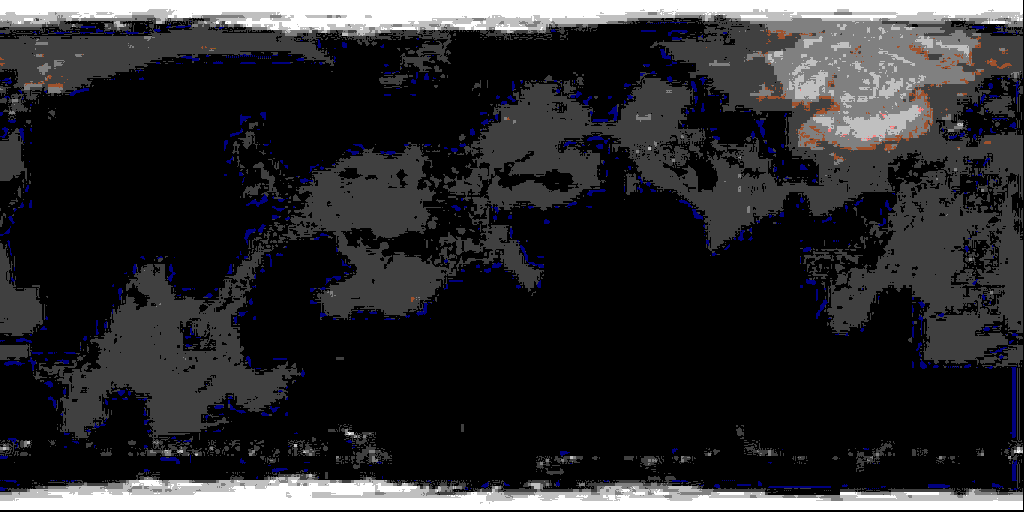
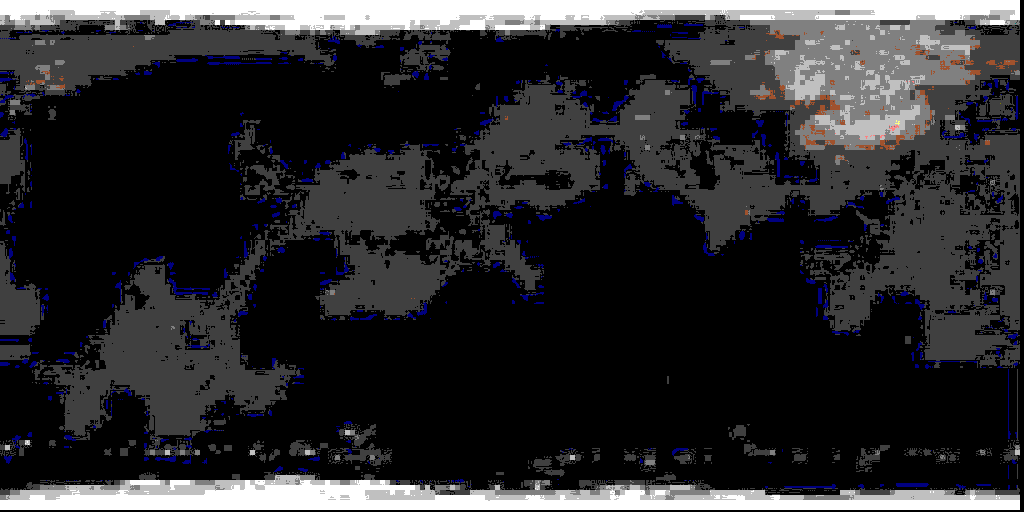
commit tmp

diff --git a/src/clustering/DBSCAN.java b/src/clustering/DBSCAN.java
@@ -4,6 +4,7 @@ import normes.NormeCIELAB;
 
 import java.awt.*;
 import java.util.ArrayList;
+import java.util.Collections;
 import java.util.HashMap;
 import java.util.HashSet;
 
@@ -16,8 +17,6 @@ public class DBSCAN implements AlgoClustering {
     // Attributs
     private int eps; // Taille du rayon de voisinage
     private int minPts; // Nombre minimum de point dans le rayon de voisinage d'un point pour le qualifié de "core point"
-    private HashMap<ArrayList<Integer>[], Double> list_combinaisons_distance = new HashMap<>();
-
 
 
 
@@ -32,104 +31,38 @@ public class DBSCAN implements AlgoClustering {
     }
 
 
-    /**
-     * Méthode qui calcul la distance entre chaque couleur de l'image
-     * @param list_carac
-     */
-    private void getAllDist(ArrayList<ArrayList<Integer>> list_carac) {
 
-        // Initialisation des variables
-        HashSet<ArrayList<Integer>> list_colors = new HashSet<>();
 
-        // On récupère chaque couleur différente
-        list_colors.addAll(list_carac);
+    @Override
+    public ArrayList<Integer> calculate_clusters(ArrayList<ArrayList<Integer>> list_carac) {
+        int C = 0;
+        int nbPoints = list_carac.size();
+        boolean[] obj_traite = new boolean[nbPoints];
+        ArrayList<Integer> list_num_cluster = new ArrayList<>(Collections.nCopies(nbPoints, -1));
 
-        System.out.println("Nombre de couleur différente trouvée : " + list_colors.size());
+        for (int n = 0; n < nbPoints; n++) {
 
-        NormeCIELAB norme = new NormeCIELAB();
+            System.out.println("Pixel -> " + n);
 
-        int i = 0;
+            if (!obj_traite[n]) {
 
-        System.out.println("Début du calcul de la distance entre chaque combinaison de couleur possible...");
-        // On parcour chaque couleur différente
-        for (ArrayList<Integer> color1 : list_colors) {
-            for (ArrayList<Integer> color2 : list_colors) {
+                obj_traite[n] = true;
+                ArrayList<Integer> voisins = regionQuery(n, list_carac);
 
-                // Si la distance entre ces deux couleur n'est pas déjà calculée
-                if (this.list_combinaisons_distance.get(new ArrayList[]{color2, color1}) == null) {
-
-                    // On transforme les données R, G, B des points en objet Color
-                    Color c1 = new Color(color1.get(0), color1.get(1), color1.get(2));
-                    Color c2 = new Color(color2.get(0), color2.get(1), color2.get(2));
-
-                    // On calcul la distance entre ces 2 couleurs
-                    double dist = norme.distanceCouleur(c1, c2);
-
-                    // On l'ajoute à la Map
-                    this.list_combinaisons_distance.put(new ArrayList[]{color1, color2}, dist);
-
+                if (voisins.size() >= minPts) {
+                    C++;
+                    expandCluster(n, voisins, obj_traite, C, list_num_cluster, list_carac);
+                } else {
+                    list_num_cluster.set(n, 0); // 0 pour bruit
                 }
 
             }
         }
 
-    }
-
-
-
-    @Override
-    public ArrayList<Integer> calculate_clusters(ArrayList<ArrayList<Integer>> list_carac) {
-
-        System.out.println("Début du calcul des clusters...");
-
-        // Initialisation de toutes les distances possibles entre toutes les couleurs
-        this.getAllDist(list_carac);
-
-        // Initialisation des variables
-        int num_cluster = 0;
-        boolean[] obj_traite = new boolean[list_carac.size()];
-
-        // Initialisation de la liste contenant pour chaque point, son numéro de cluster
-        ArrayList<Integer> list_num_cluster = new ArrayList<>(list_carac.size());
-        for (int i = 0; i < list_carac.size(); i++) {
-            list_num_cluster.add(-1);
-        }
-
-        // On parcour chaque point
-        for (int i = 0; i < list_carac.size(); i++) {
-
-            int nb_false = 0;
-            for (boolean b : obj_traite) {
-                if (!b) { nb_false++; }
-            }
-            System.out.println("Pixel -> " + i + "/" + nb_false);
-
-            // Si le point n'a pas déjà été traité, on le marque comme traité
-            if (!obj_traite[i]) { obj_traite[i] = true; }
-
-            // On récupère la liste des points qui sont dans le rayon de voisinage
-            ArrayList<ArrayList<Integer>> pts_voisin = this.regionQuery(i, list_carac);
-
-            // Si il y a plus de points voisin que le nombre minimal défini
-            if (pts_voisin.size() >= this.minPts) {
-
-                // On créé un nouveau cluster et on ajoute à l'intérieur tous ses voisins qui peuvent rentrer dans ce cluster
-                num_cluster += 1;
-                this.expandCluster(i, pts_voisin, obj_traite, num_cluster, list_num_cluster, list_carac);
-
-            }
-
-            // Sinon, on marque le point comme un noise point
-            else {
-                list_num_cluster.set(i, -1); // -1 indique que le point est un "Noise Point"
-            }
-
-        }
-
-        // On retourne la liste des numéros de clusters
         return list_num_cluster;
 
     }
+
 
 
     /**
@@ -138,45 +71,23 @@ public class DBSCAN implements AlgoClustering {
      * @param list_carac Liste de point représenté par une liste de caractéristiques (R, G, B)
      * @return Liste de points dans la zone de voisinage
      */
-    private ArrayList<ArrayList<Integer>> regionQuery(int index_point, ArrayList<ArrayList<Integer>> list_carac) {
+    private ArrayList<Integer> regionQuery(int index_point, ArrayList<ArrayList<Integer>> list_carac) {
 
-        // Initialisation des variables
         NormeCIELAB norme = new NormeCIELAB();
-        ArrayList<Integer> point = list_carac.get(index_point);
+        ArrayList<Integer> V = new ArrayList<>();
 
-        // On créé et remplie la liste avec des null
-        ArrayList<ArrayList<Integer>> list_points_voisins = new ArrayList<>(list_carac.size());
+        Color c1 = new Color(list_carac.get(index_point).get(0), list_carac.get(index_point).get(1), list_carac.get(index_point).get(2));
+
         for (int i = 0; i < list_carac.size(); i++) {
-            list_points_voisins.add(null);
-        }
-
-
-
-
-        // On parcour chaque point
-        for (ArrayList<Integer> p : list_carac) {
-
-
-            // System.out.println("Pixel (regionQuery) -> " + p);
-
-            // On transforme les données R, G, B des points en objet Color
-            Color p_color = new Color(p.get(0), p.get(1), p.get(2));
-            Color point_color = new Color(point.get(0), point.get(1), point.get(2));
-
-            // Si on ne compare pas le même point et que la distance entre les deux couleurs est inférieur à la taille du rayon
-            if (p != point && norme.distanceCouleur(p_color, point_color) <= this.eps) {
-
-                // On ajoute ce point à la liste des voisins
-                list_points_voisins.set(index_point, p);
-
+            Color c2 = new Color(list_carac.get(i).get(0), list_carac.get(i).get(1), list_carac.get(i).get(2));
+            if (i != index_point && norme.distanceCouleur(c1, c2) <= eps) {
+                V.add(i);
             }
-
         }
 
-        // On retourne la liste des voisins
-        return list_points_voisins;
-
+        return V;
     }
+
 
 
     /**
@@ -188,52 +99,36 @@ public class DBSCAN implements AlgoClustering {
      * @param list_num_cluster Liste qui contient le numéro de cluster pour chaque point
      * @param list_carac Liste de point représenté par une liste de caractéristiques (R, G, B)
      */
-    private void expandCluster(int index_point, ArrayList<ArrayList<Integer>> ptsVoisin, boolean[] obj_traite, int numCluster, ArrayList<Integer> list_num_cluster, ArrayList<ArrayList<Integer>> list_carac) {
+    private void expandCluster(int index_point, ArrayList<Integer> ptsVoisin, boolean[] obj_traite,
+                               int numCluster, ArrayList<Integer> list_num_cluster, ArrayList<ArrayList<Integer>> list_carac) {
 
-        // On ajoute le point initial au nouveau cluster
         list_num_cluster.set(index_point, numCluster);
 
         for (int i = 0; i < ptsVoisin.size(); i++) {
 
-            // On récupère le point
-            ArrayList<Integer> p = ptsVoisin.get(i);
+            int index_voisin = ptsVoisin.get(i);
 
-            // Si le point n'est pas null
-            if (p != null) {
+            if (!obj_traite[index_voisin]) {
 
-                // System.out.println("Pixel (expandCluster) -> " + i);
+                obj_traite[index_voisin] = true;
+                ArrayList<Integer> voisins2 = regionQuery(index_voisin, list_carac);
 
-                // Si le point n'a pas été traité
-                if (!obj_traite[i]) {
+                if (voisins2.size() > minPts) {
 
-                    // On marque le point comme traité
-                    obj_traite[i] = true;
-
-                    // On récupère la liste des points situé dans sa zone de voisinage
-                    ArrayList<ArrayList<Integer>> list_voisins_p = this.regionQuery(i, list_carac);
-
-                    // Si la taille de cette liste est supérieur au minimum de point demandé
-                    if (list_voisins_p.size() > this.minPts) {
-
-                        // On concatène la liste des voisins des points du point que l'on regarde à la liste des points voisins du point initial
-                        ptsVoisin.addAll(list_voisins_p);
-
+                    for (int v : voisins2) {
+                        if (!ptsVoisin.contains(v)) {
+                            ptsVoisin.add(v);
+                        }
                     }
-
-
-                }
-
-                // Si ce point n'est dans aucun cluster
-                if (list_num_cluster.get(i) == -1) {
-
-                    // On ajoute ce point dans le cluster
-                    list_num_cluster.set(i, numCluster);
 
                 }
             }
 
+            if (list_num_cluster.get(index_voisin) == -1) {
+                list_num_cluster.set(index_voisin, numCluster);
+            }
         }
-
     }
+
 
 }

diff --git a/src/CopieImage.java b/src/CopieImage.java
@@ -185,11 +185,19 @@ public class CopieImage {
 
 
         CopieImage copieImage = new CopieImage();
-        String inputPath = "cartes/Planete 1.jpg";
-        String outputPath = "cartes2/Planete1_flou.png";
-        String outputPath2 = "cartes2/Planete1_flou_gauss.png";
+        /*
+        String inputPath = "cartes/Planete 4.jpg";
+        String outputPath = "cartes2/Planete4_flou.png";
+        String outputPath2 = "cartes2/Planete4_flou_gauss.png";
 
-        String outputPathColor = "cartes2/Planete1_color.png";
+        String outputPathColor = "cartes2/Planete4_color.png";
+        */
+
+        String inputPath = "cartes/carte_test.jpg";
+        String outputPath = "cartes2/carte_test_flou.png";
+        String outputPath2 = "cartes2/carte_testflou_gauss.png";
+
+        String outputPathColor = "cartes2/carte_test_color.png";
 
 
         // Load and save the image
@@ -245,6 +253,10 @@ public class CopieImage {
 
         // On copie l'image en utilisant la palette de couleurs
         copieImage.copyImageClosestColor(outputPathColor, p);
+        copieImage.saveImage(outputPathColor);
+
+
+
 
         /*
          * CLUSTERING DBSCAN
@@ -253,15 +265,12 @@ public class CopieImage {
         // On récupère la liste des données de l'image (couleur RGB pour chaque pixel)
         ArrayList<ArrayList<Integer>> list_data = copieImage.getData();
 
-        DBSCAN dbscan = new DBSCAN(50, 5);
+        DBSCAN dbscan = new DBSCAN(2, 5);
 
-        System.out.println("Début du calcul des clusters...");
         ArrayList<Integer> list_pixel_cluster = dbscan.calculate_clusters(list_data);
 
         System.out.println("Résulat :");
         System.out.println(list_pixel_cluster);
-
-
 
 
 
